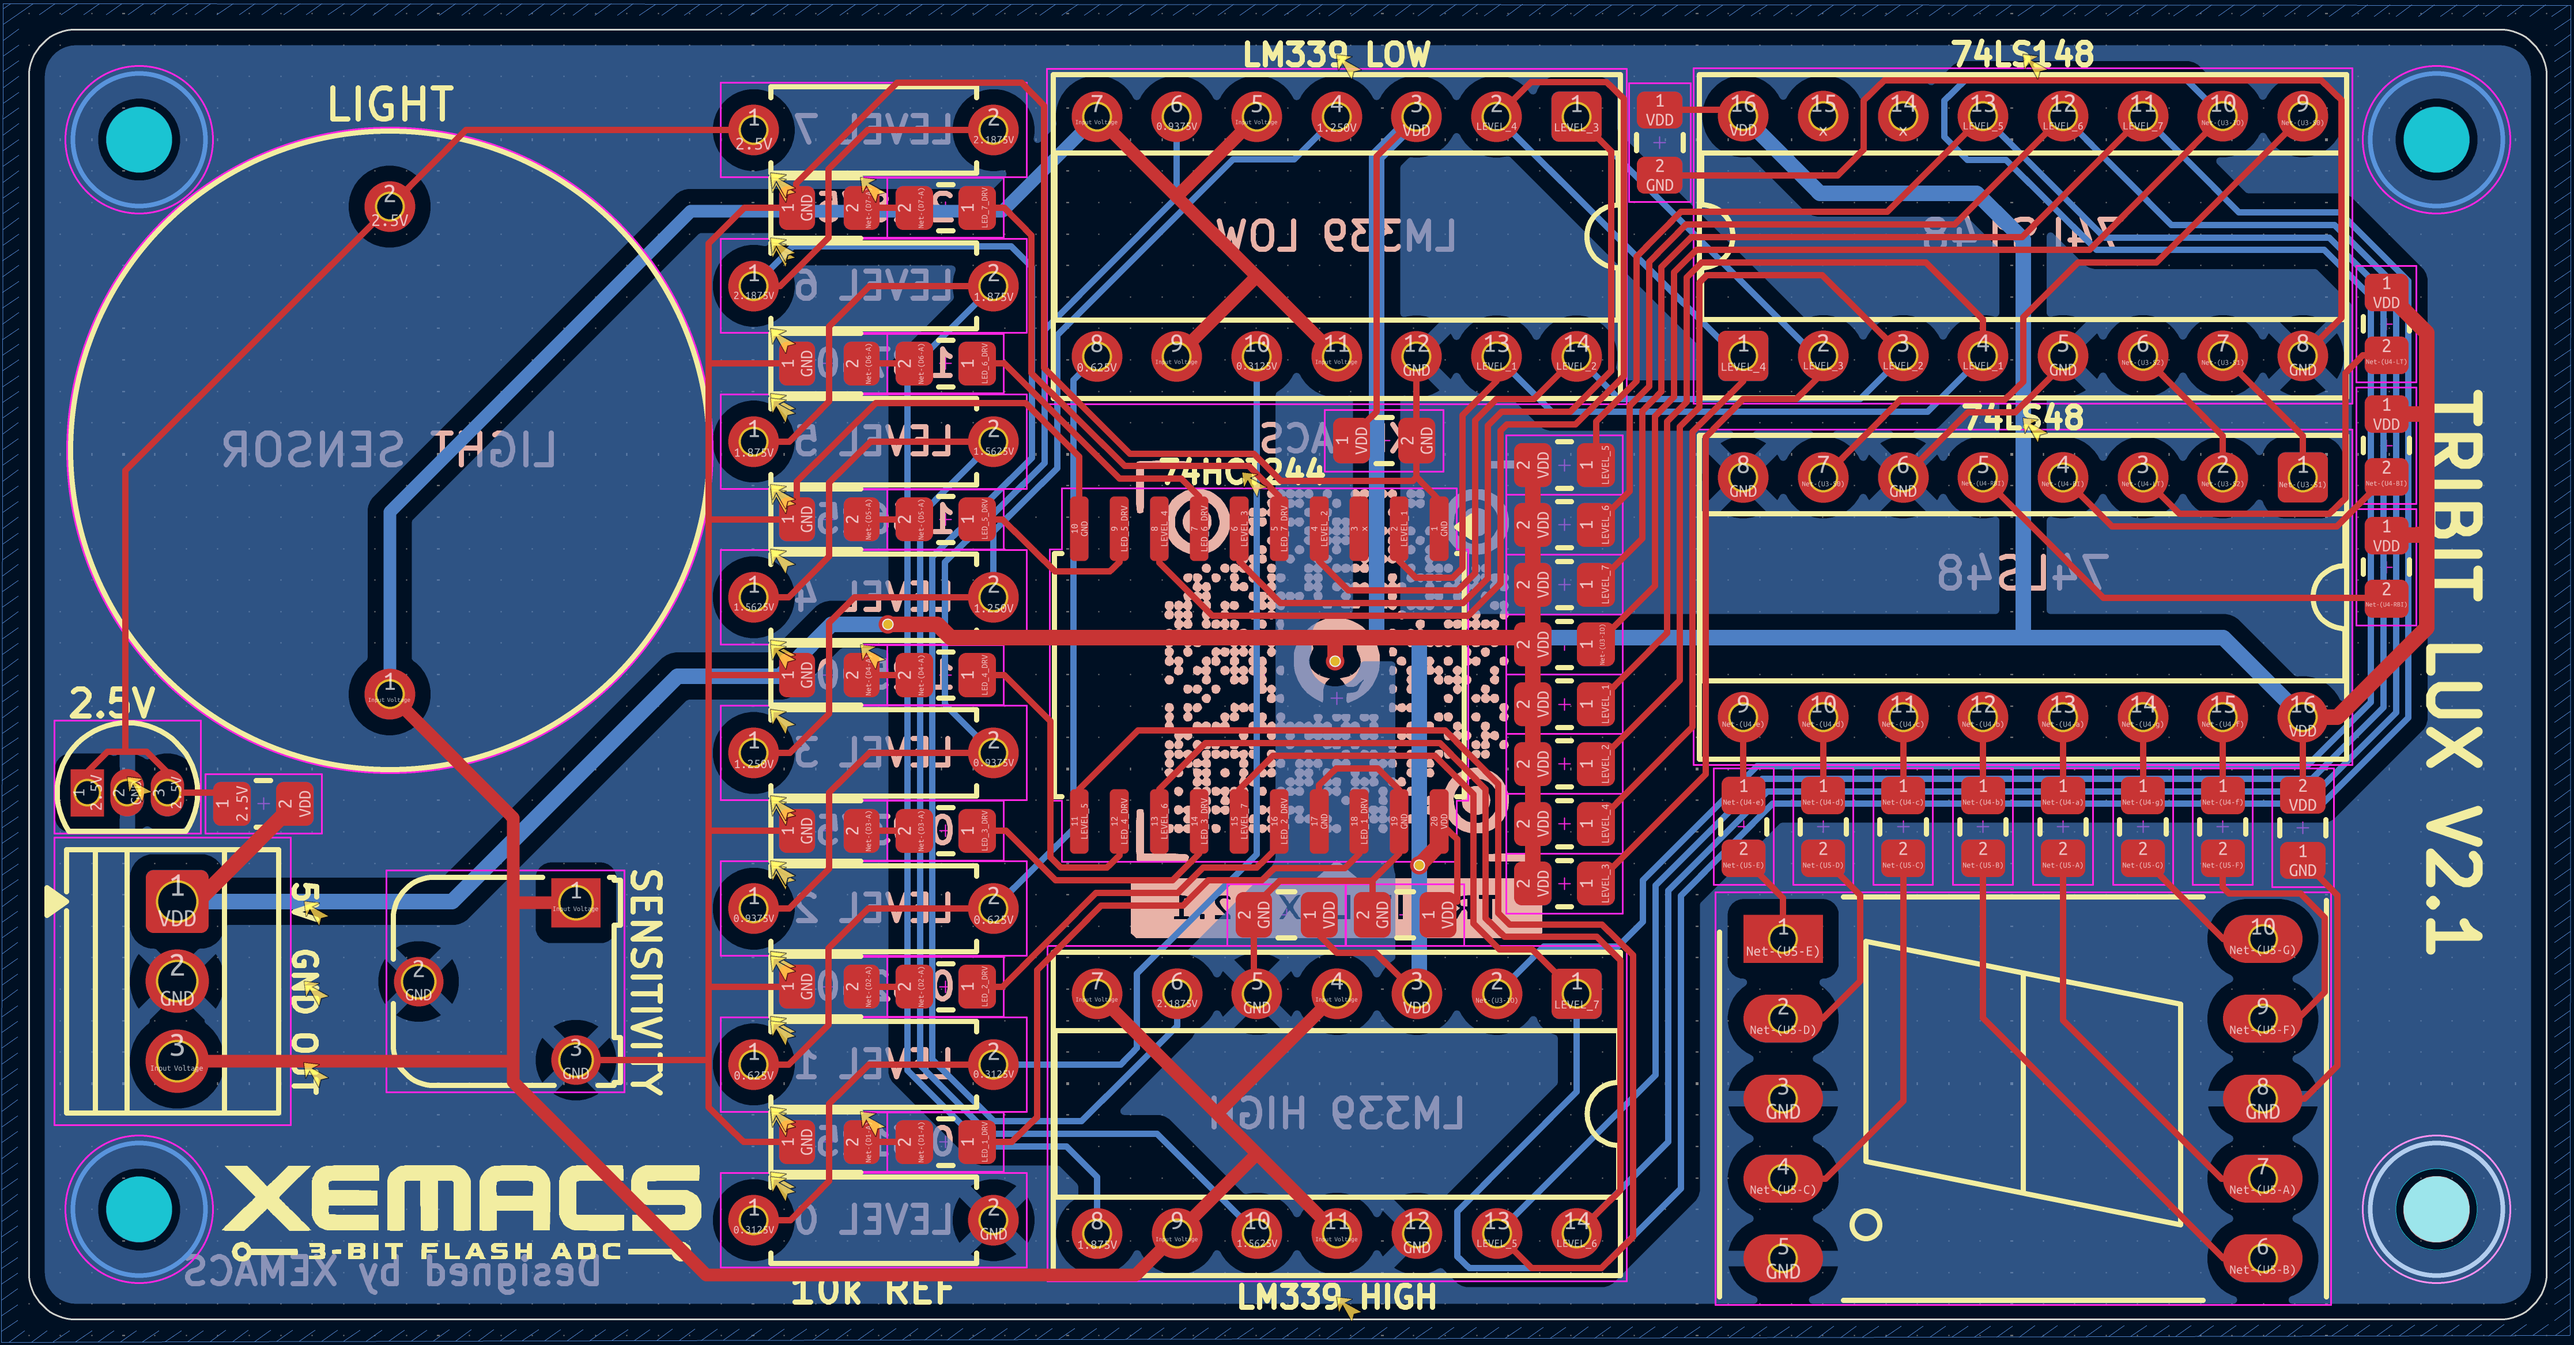
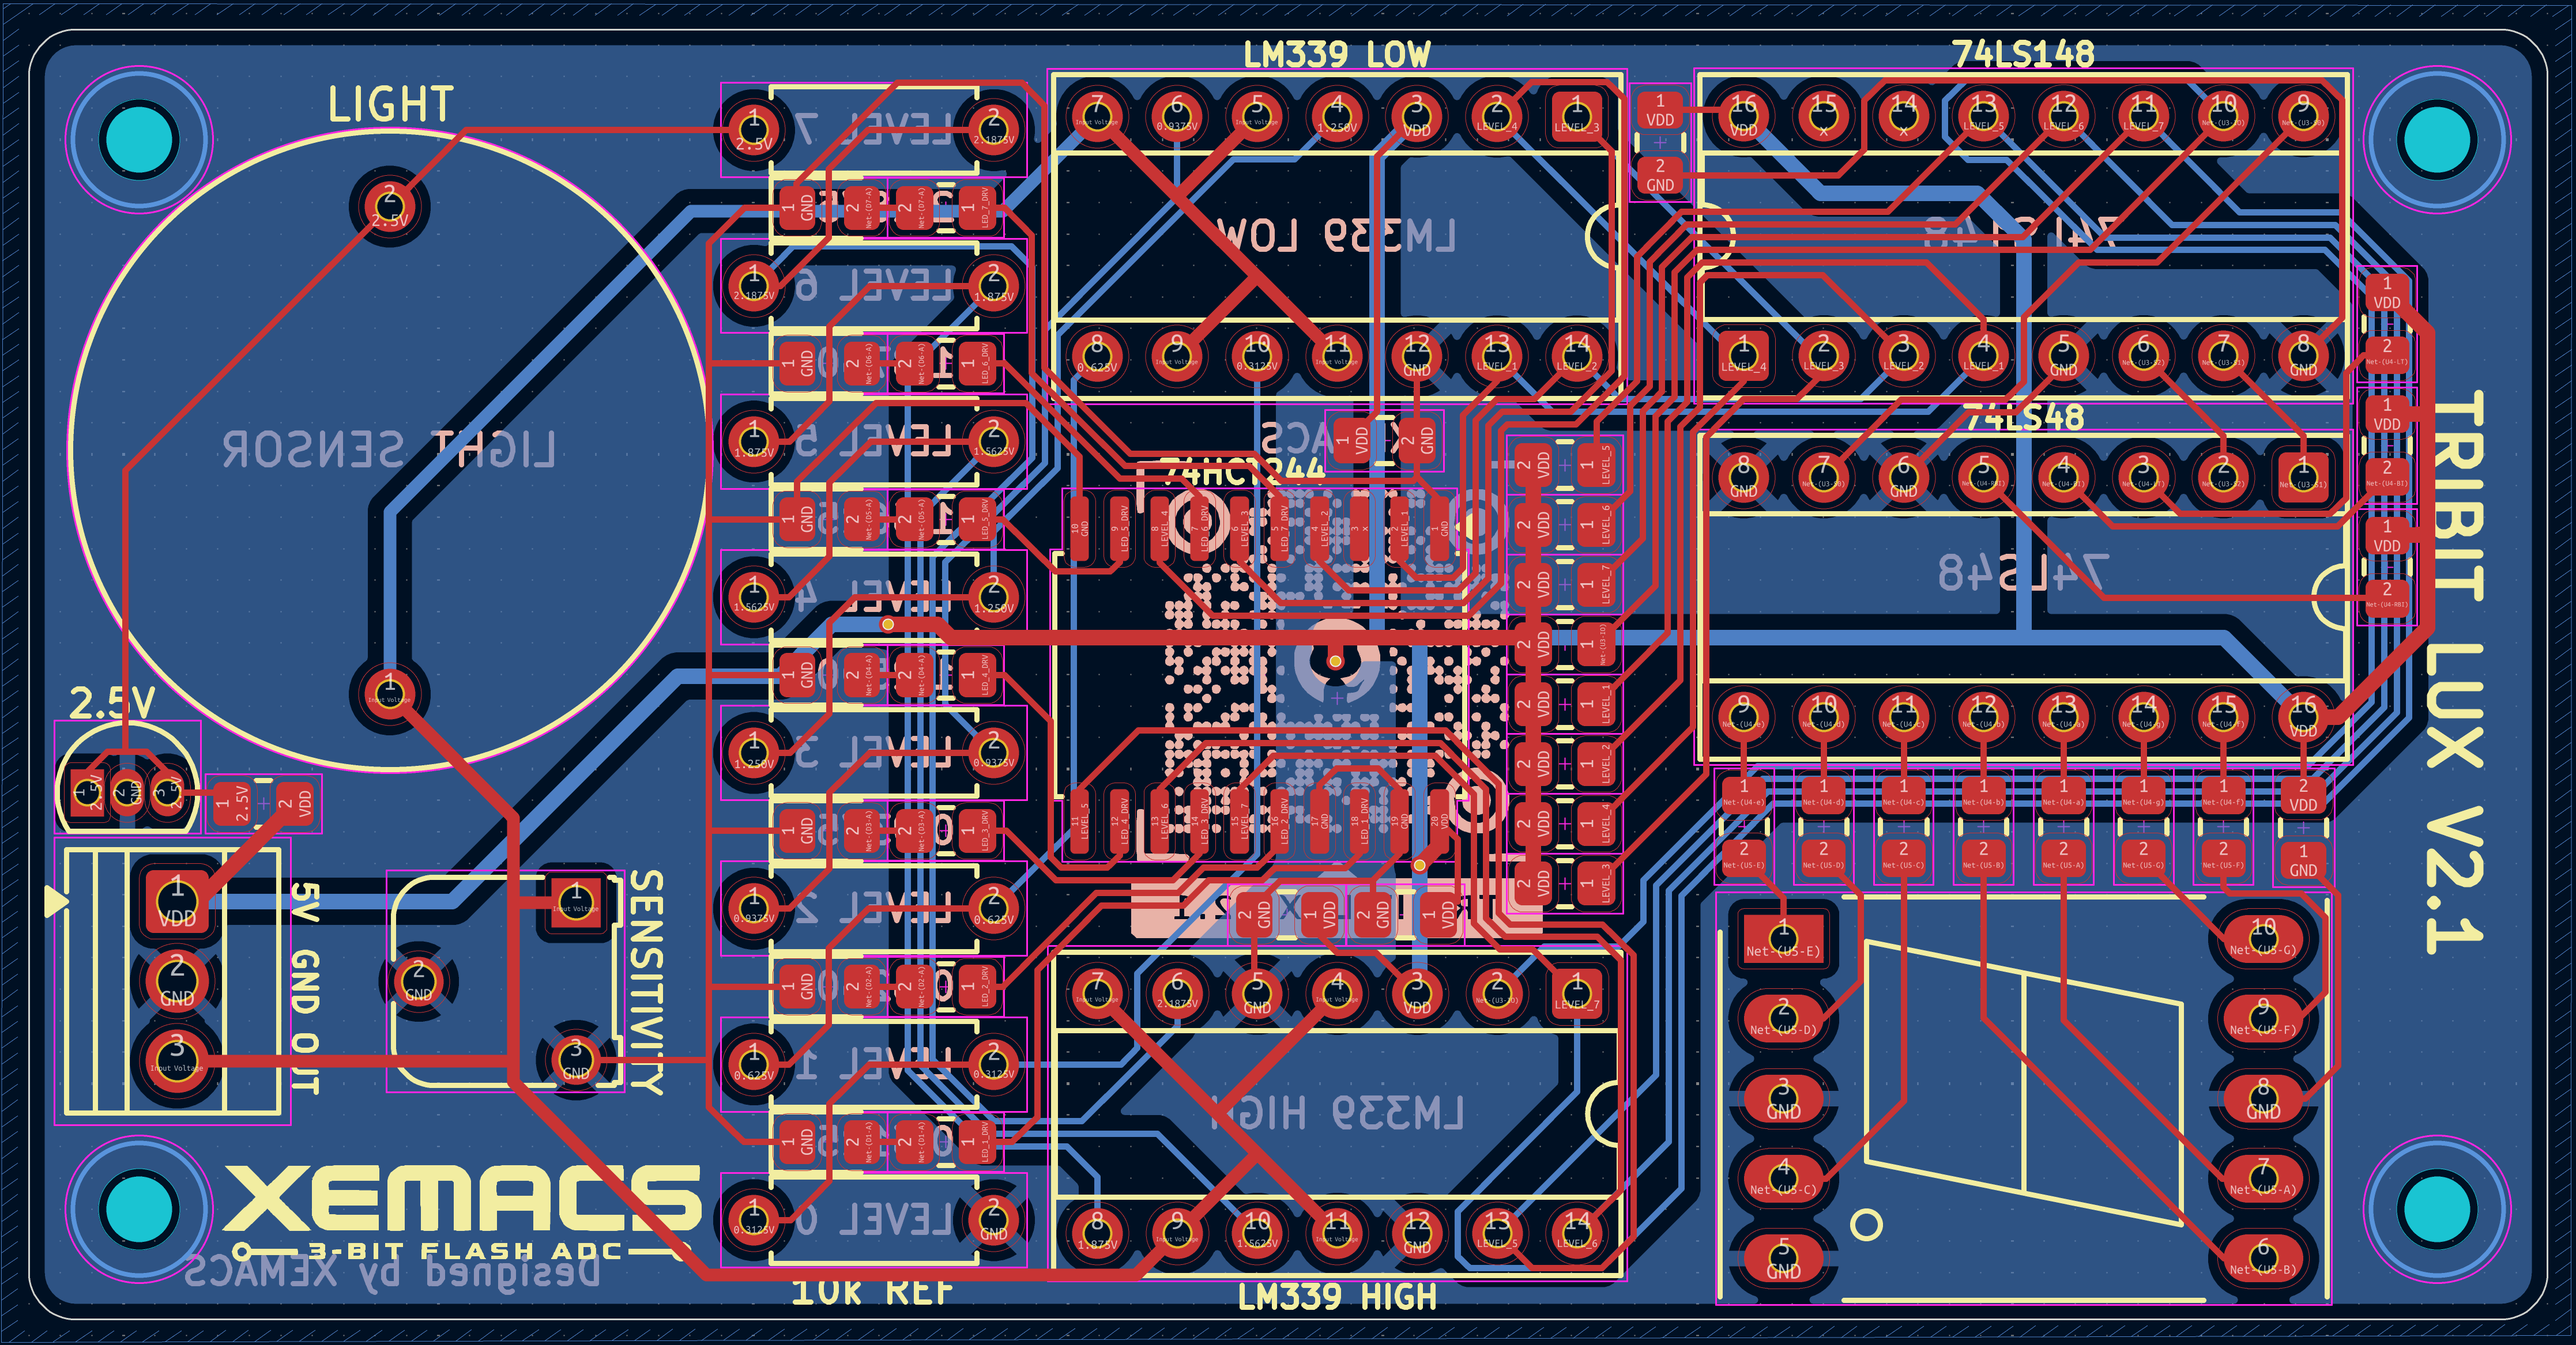
Rounting and layout updates for Version 2.1 of the TriBitLux PCB, including new routing images and updated gerber files. The website implementation and inventory files have also been modified to reflect these changes.

diff --git a/website/data.js b/website/data.js
@@ -68,10 +68,26 @@ export const versions = [
     challenge:'Combining the logic path with the LED buffer and preparing the SMT assembly files. Supplier orientation and physical validation remain open.',
     outcome:'56 electrical parts: 39 SMT and 17 through-hole, verified from the current BOM. The README records zero DRC errors and 57 remaining warnings on 30 October.',
     note:'Not fabricated or bench-tested. Saved renders predate the final label-alignment pass. The existing Gerber ZIP is historical and must be regenerated before ordering.',
-    gallery:[asset('2.1','TriBitLux_V2_1_Top.png','Populated top · CAD render by XEMACS'),asset('2.1','TriBitLux_V2_1_Top(Non-Populated).png','Front · labels and placement'),asset('2.1','TriBitLux_V2_1_Bottom.png','Back · threshold guide and repository QR'),asset('2.1','TriBitLux_V2_1_Layout.png','Layout · copper routing and placement'),asset('2.1','Schematic.png','V2.1 circuit schematic',{full:'Version_2.1/schematic/TriBitLux_V2_1.svg'})]
+    gallery:[
+      asset('2.1','TriBitLux_V2_1_Top.png','Populated top · CAD render by XEMACS'),
+      asset('2.1','TriBitLux_V2_1_Top(Non-Populated).png','Front · labels and placement'),
+      asset('2.1','TriBitLux_V2_1_Bottom.png','Back · threshold guide and repository QR'),
+      asset('2.1','TriBitLux_V2_1_Layout.png','Layout · copper routing and placement'),
+      asset('2.1','FCu_Routing.png','Front copper routing · F.Cu layer'),
+      asset('2.1','BCu_Routing.png','Back copper routing · B.Cu layer'),
+      asset('2.1','Schematic.png','V2.1 circuit schematic',{full:'Version_2.1/schematic/TriBitLux_V2_1.svg'})
+    ]
   }
 ];
 export const pcbViews = {
-  '2.1': [{label:'Populated',index:0},{label:'Front',index:1},{label:'Back',index:2},{label:'Copper / layout',index:3},{label:'Schematic',index:4}],
+  '2.1': [
+    {label:'Populated',index:0},
+    {label:'Front',index:1},
+    {label:'Back',index:2},
+    {label:'Layout',index:3},
+    {label:'Front copper',index:4},
+    {label:'Back copper',index:5},
+    {label:'Schematic',index:6}
+  ],
   '2.0': [{label:'Populated',index:0},{label:'Front',index:1},{label:'Back',index:2},{label:'Copper / layout',index:3},{label:'Schematic',index:4}]
 };

diff --git a/website/IMPLEMENTATION.md b/website/IMPLEMENTATION.md
@@ -1,15 +1,15 @@
 # TriBit Lux website integration
 
-Implemented locally on 13 November 2026. No commit, push, deployment or GitHub Pages setting change was made.
+Implemented locally on 13 November 2026; updated on 14 November 2026 to add V2.1 front and back copper routing views (`FCu_Routing.png` and `BCu_Routing.png`). No commit, push, deployment or GitHub Pages setting change was made.
 
 ## Files
 
 - `index.html`: standalone portfolio with home, ADC lab, evolution, PCB showcase, technical documentation and resources.
 - `website/styles.css`: original dark green electronics palette, responsive layouts, light theme and reduced-motion support.
-- `website/data.js`: documented histories and curated original media for all eight versions.
+- `website/data.js`: documented histories and curated original media for all eight versions, including V2.1 front and back copper routing layers.
 - `website/adc.js`: ideal 2.5 V quantizer and digit patterns.
 - `website/app.js`: galleries, native dialog lightbox, simulation controls, navigation and resource filters.
-- `website/inventory.json` / `inventory.csv`: 123 inventoried originals and previews; 106 tracked files offered in the resource browser.
+- `website/inventory.json` / `inventory.csv`: 126 inventoried originals and previews; 109 tracked files offered in the resource browser.
 - `website/tools/build_inventory.py`: regenerates the inventory without modifying originals.
 - `website/tools/check.mjs`: repeatable ADC, file, case-sensitive path and optional HTTP checks.
 - `_includes/head-custom.html`: reduced to a valid head fragment. The complete Canva HTML had been stored here; no root index existed in this checkout. Its palette and display interaction informed the new standalone page. The Canva bootstrap, SDKs, CDN scripts, inline editor styles and runtime GitHub media discovery are removed from the active site.
